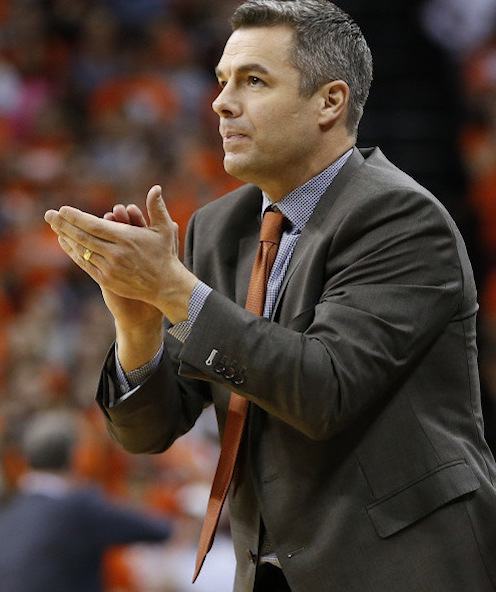
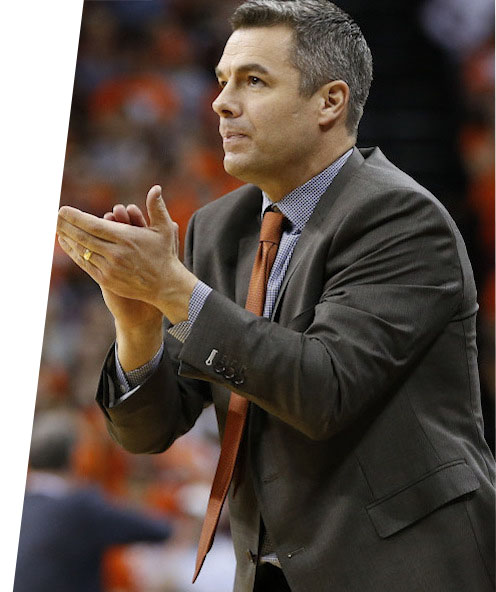
header adds

Changed region(s): [[0.0, 0.0, 0.1815, 1.0], [0.998, 0.0, 1.0, 0.9426]]

diff --git a/index.php b/index.php
@@ -133,7 +133,7 @@
   </div>
   <div class = "image-container">			
   	<div class = "backlight">
-    	<img id = "third-pic" class = "pic-links" src = "bball.jpg" >
+    	<img id = "third-pic" class = "pic-links" src = "bball-copy.jpg" >
   	</div> 
   </div>	  
  </div> 
